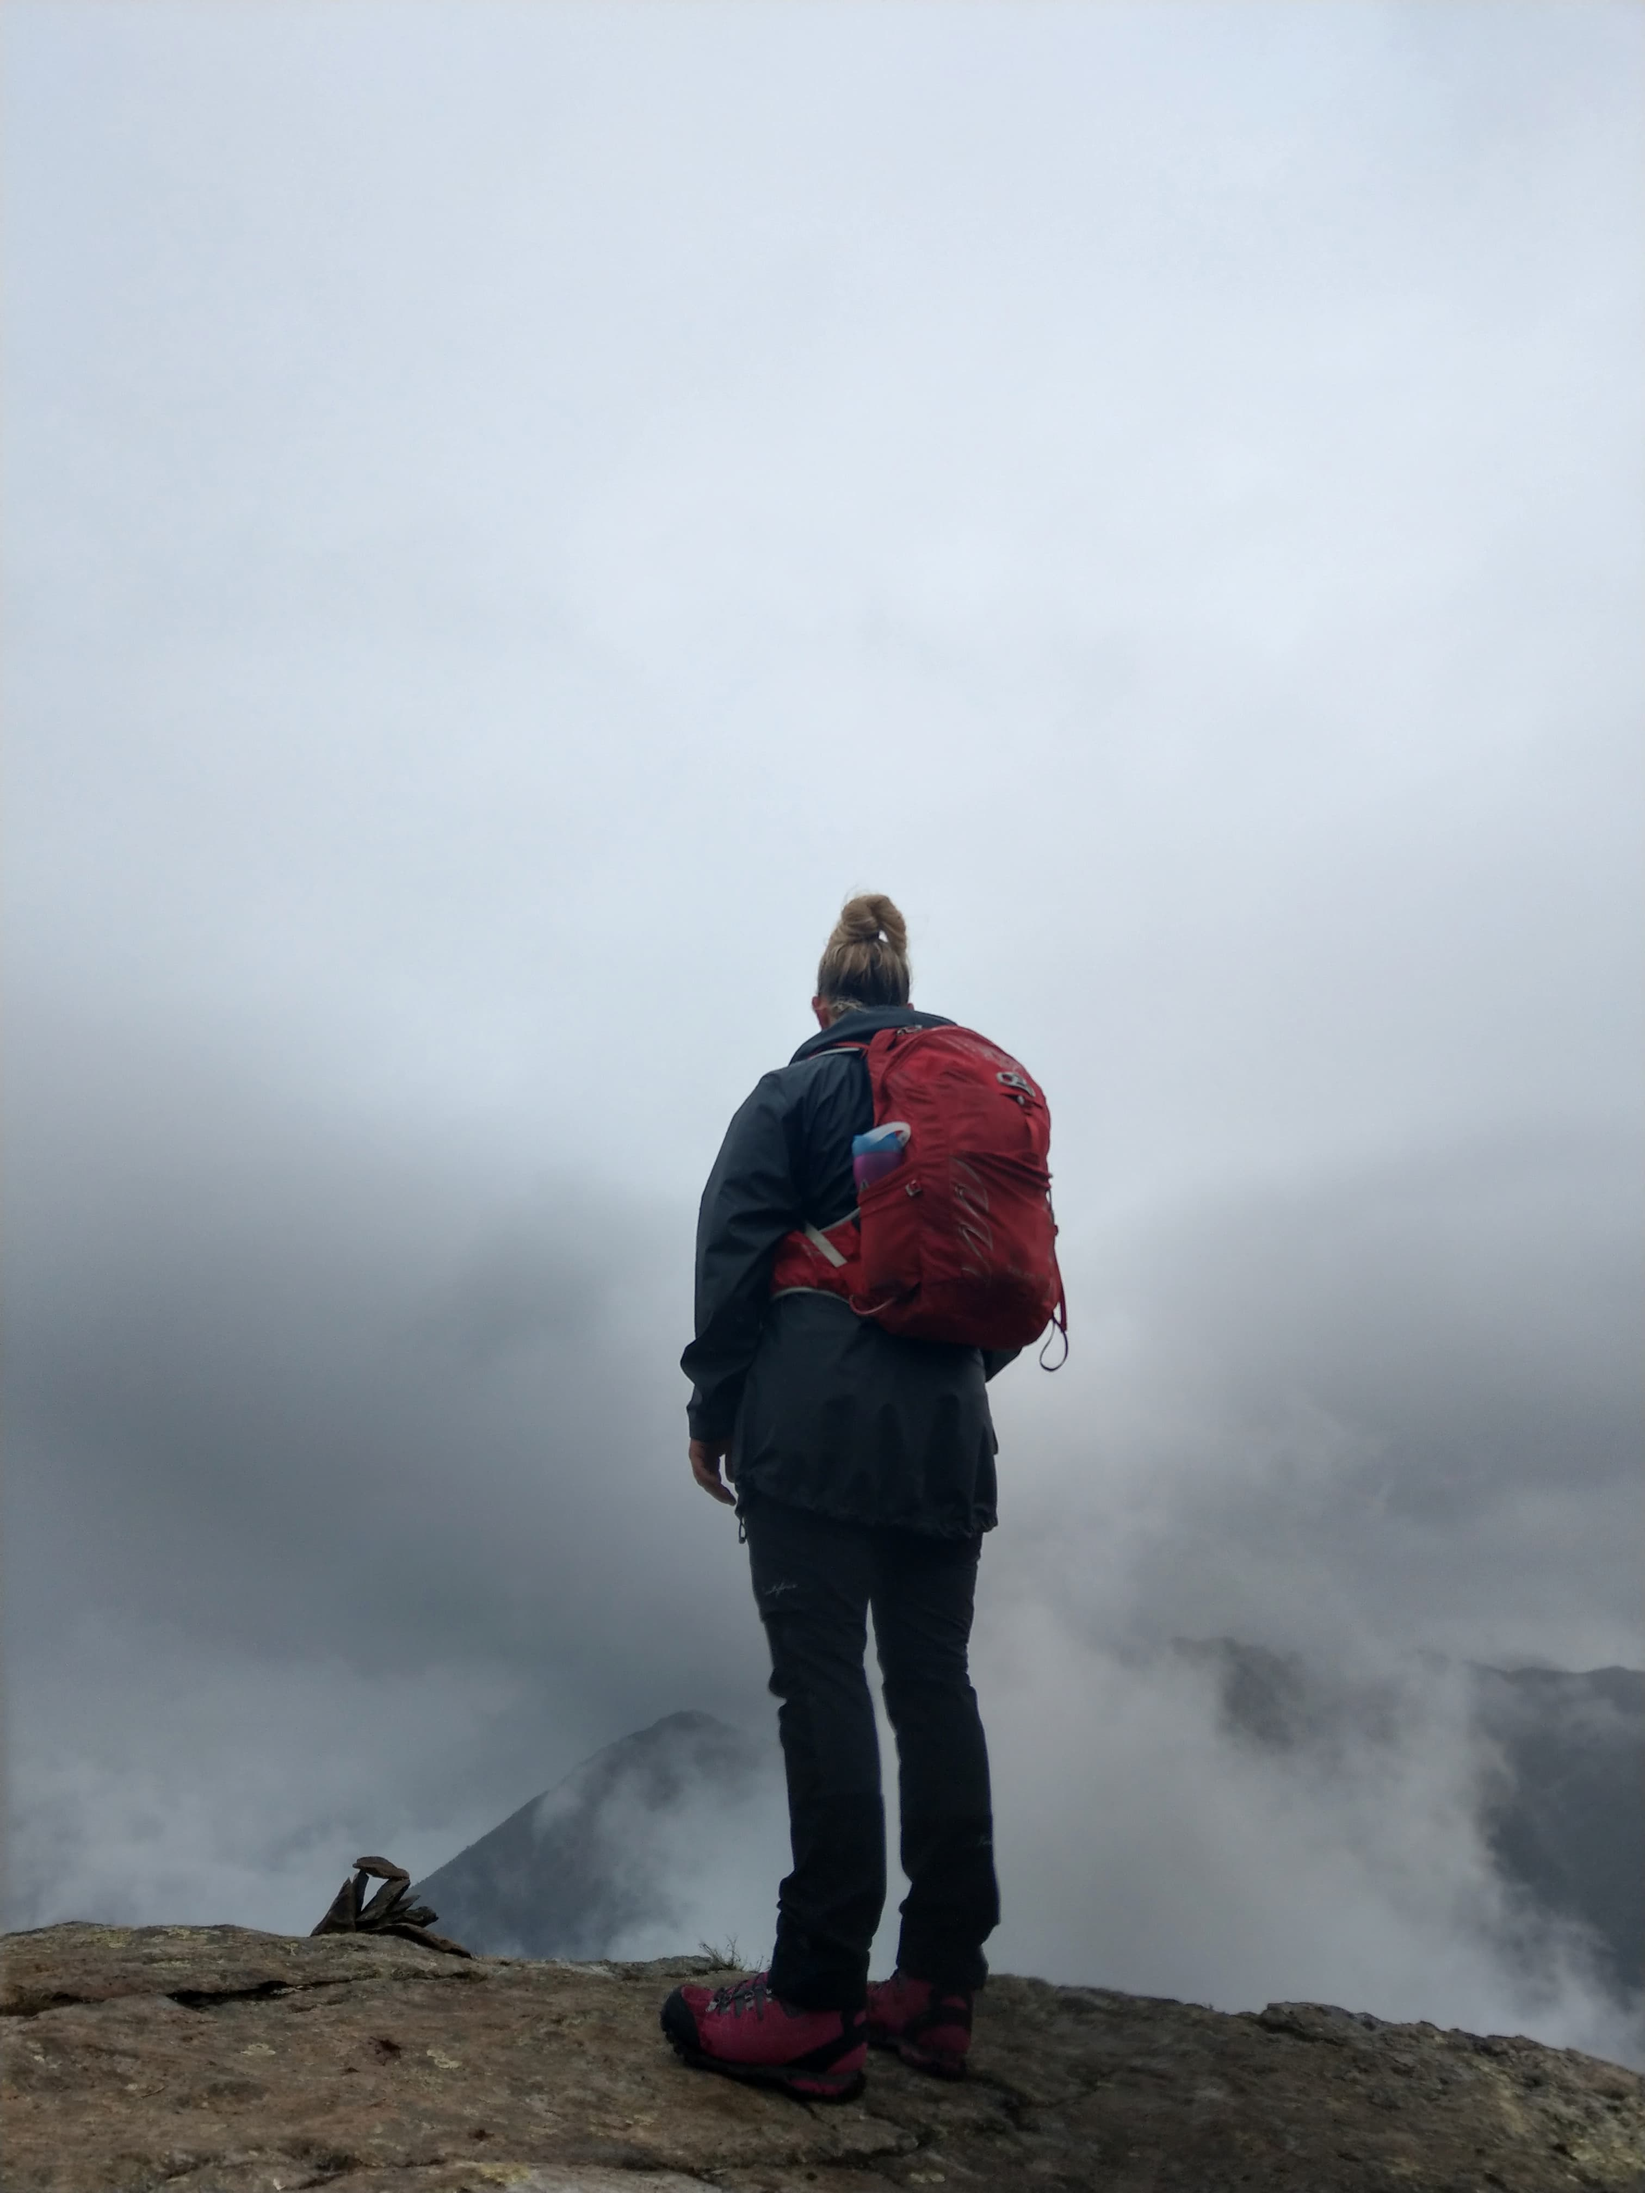
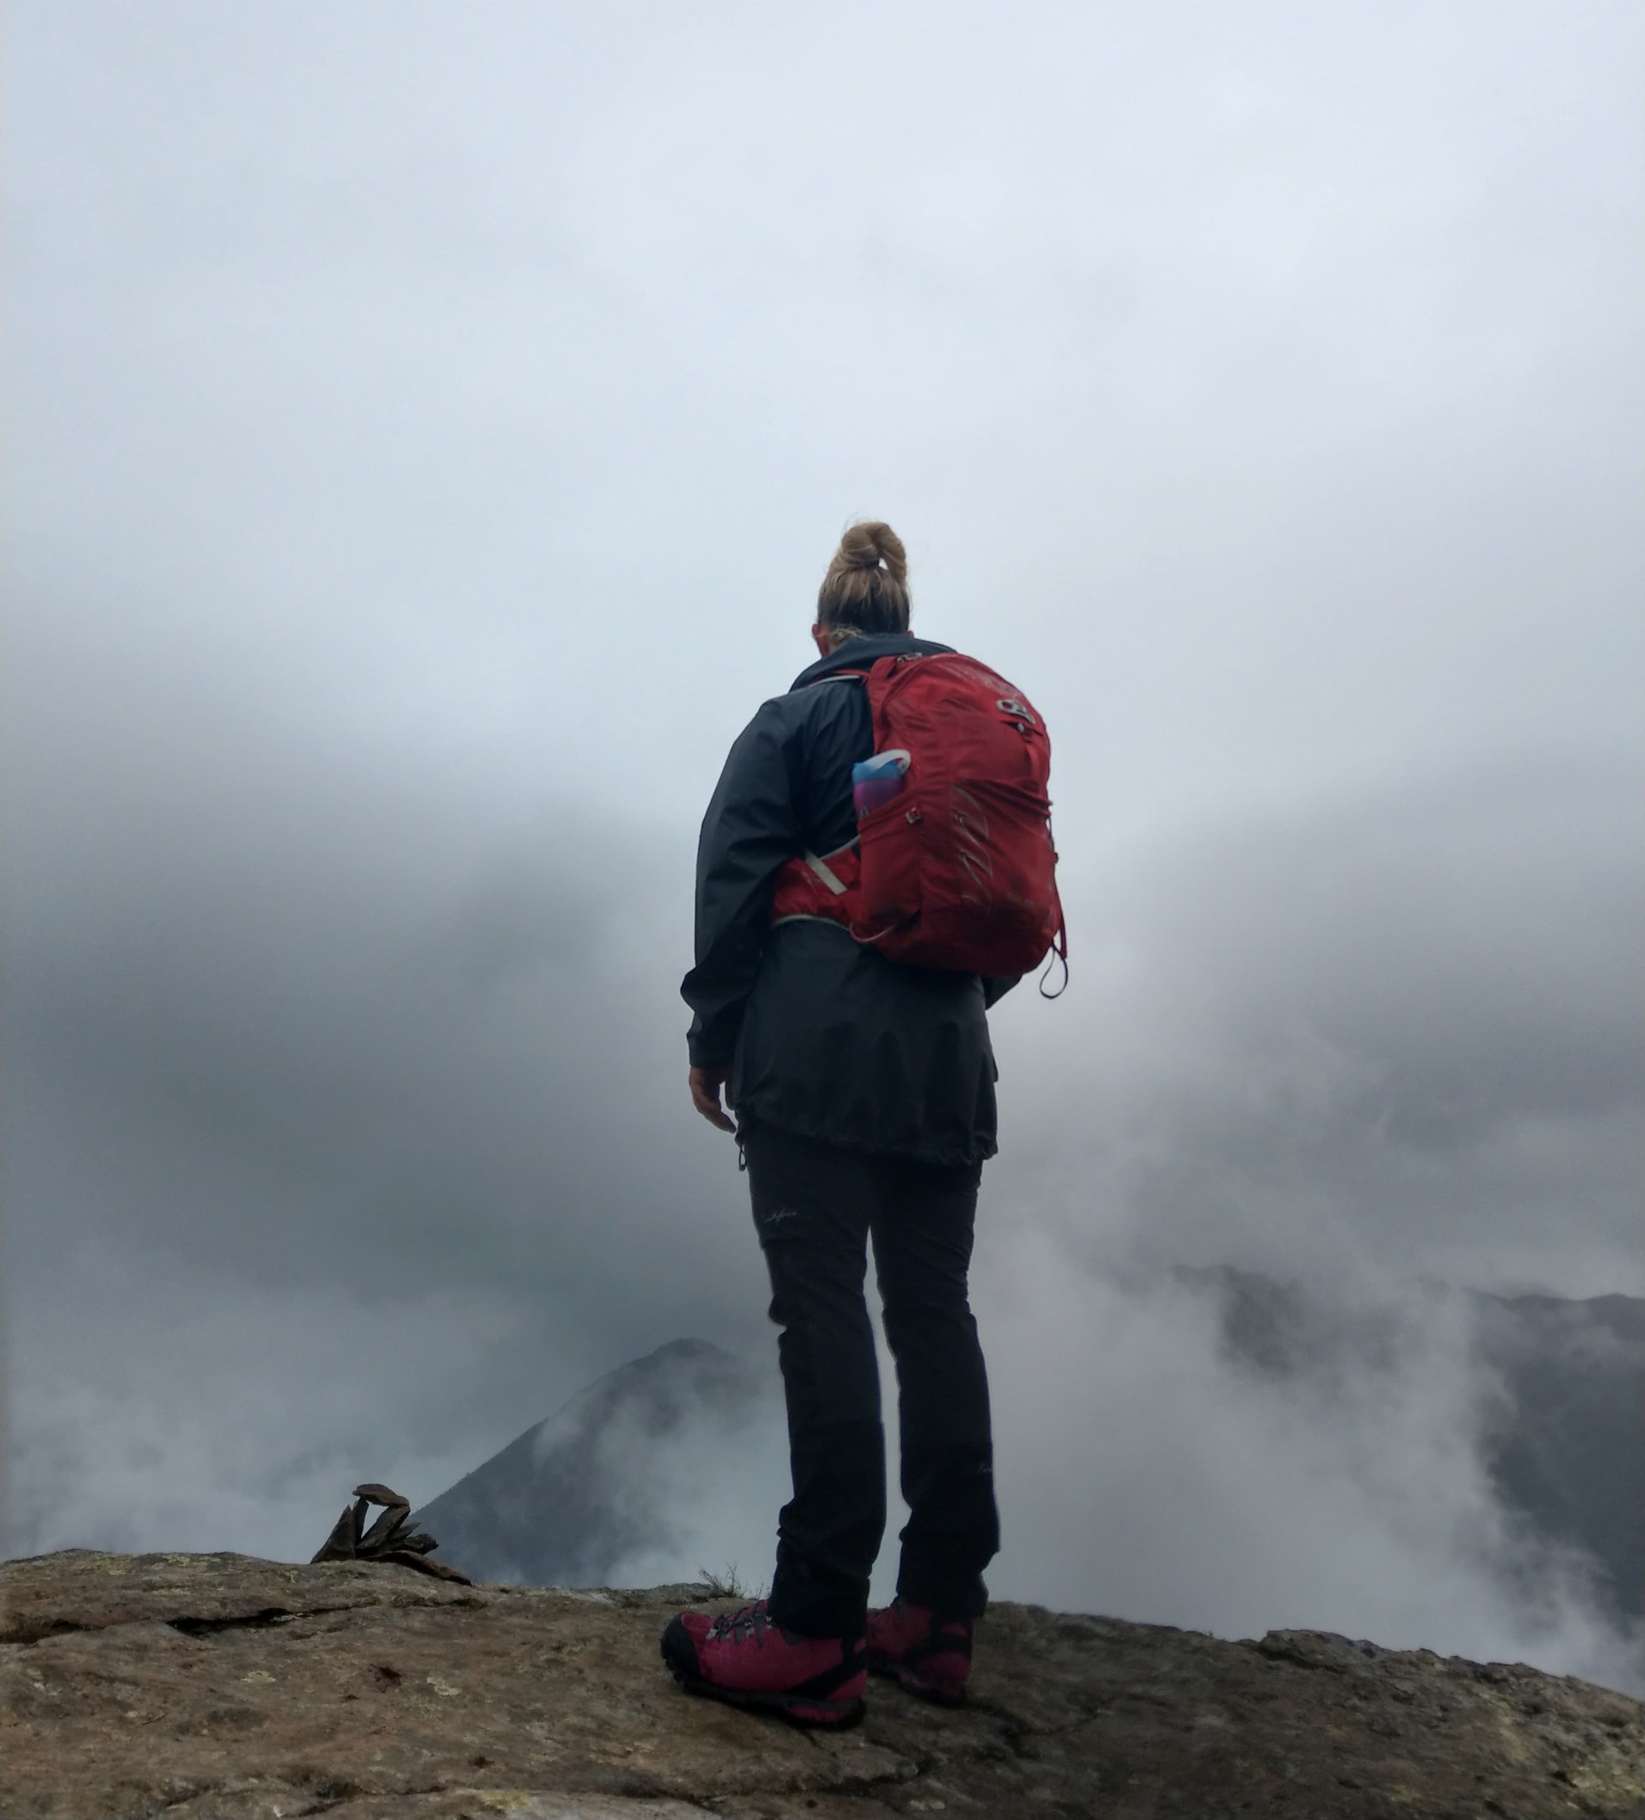
updated buttons and design

Changed region(s): [[0.0, 0.2797, 1.0, 0.9943]]

diff --git a/style.css b/style.css
@@ -54,6 +54,23 @@ body {
   max-width: 150px;
 }
 
+.back-button {
+  display: inline-flex;
+  align-items: center;
+  gap: 6px;
+  padding: clamp(6px, 1vw, 10px) clamp(12px, 2vw, 24px);
+}
+
+.back-button i {
+  font-size: 0.9em;
+}
+
+.nav-left {
+  display: flex;
+  gap: 8px;
+  align-items: center;
+}
+
 .nav-button,
 .back-button,
 .btn-jacket {
@@ -156,7 +173,7 @@ body {
   min-height: 100vh;
 }
 
-/*mens_jackets background failsafe*/
+
 
 
 @media (max-width:1024px) {
@@ -170,7 +187,7 @@ body {
   .home-page {
     background-image: url("images/dronningstien.jpg");
     background-size: cover;
-    background-position: left 50% bottom 80px top left;
+    background-position: left 50% bottom -80px;
   }
 }
 
@@ -382,28 +399,49 @@ body.shop-page {
 
 /*product page start*/
 
+
 .product-description {
   background-color: #A7B3A4;
+  overflow: hidden;
+}
+
+body.product-description {
+  overflow: hidden;
+  height: 100vh;
+  margin: 0;
+  padding: 0;
+}
+
+main {
+  display: flex;
+  flex-direction: column;
+  min-height: calc(100vh - 160px);
+  padding: 20px 0 80px;
+  box-sizing: border-box;
+  overflow: hidden;
 }
 
 .product-container {
   display: flex;
-  align-items: center;
-  gap: 1rem;
+  height: calc(100vh - 160px);
+  width: 100%;
+  max-width: none;
+  margin: 0;
+  padding: 0;
+  gap: 0;
 }
 
 .product-box {
   flex: 0 0 50%;
-  background: #F8E6BF;
   padding: 30px;
-  display: flex;
-  flex-direction: column;
-  justify-content: flex-start;
-  box-shadow: 0 4px 8px rgba(0, 0, 0, 0.1);
+  background: #F8E6BF;
+  box-shadow: 0 4px 8px rgba(0, 0, 0, 0.2);
+  overflow-y: auto;
+
 }
 
 .text-content {
-  margin-bottom: 20px;
+  margin-bottom: 15px;
   text-align: left;
 }
 
@@ -421,37 +459,74 @@ body.shop-page {
 }
 
 .jacket-image {
-  max-width: 200px;
+  max-width: 150px;
   height: auto;
+  display: block;
+  margin: 0 auto;
+  object-fit: contain;
 }
 
 
 .background-img {
   flex: 1;
-  height: auto;
-  display: block;
+  margin: 0;
 }
 
 .background-img img {
+  max-height: calc(100vh - 180px);
+  object-position: center;
   width: 100%;
   height: 100%;
   object-fit: cover;
-  object-position: center;
 }
+
+.add-to-cart {
+  display: inline-flex;
+  align-items: center;
+  gap: 8px;
+  padding: 8px 20px;
+  margin-top: 12px;
+  background-color: #F8C659;
+  color: #2F5327;
+  border-radius: 100px;
+  font-family: 'Bebas Neue', sans-serif;
+  font-size: 1.2rem;
+  letter-spacing: 2px;
+  text-decoration: none;
+  transition: all 0.3s ease;
+  box-shadow: 0 3px 6px rgba(0, 0, 0, 0.2);
+  border: 2px solid transparent;
+  cursor: pointer;
+}
+
+.add-to-cart:hover {
+  background-color: #2F5327;
+  color: #F8E6BF;
+  transform: translateY(-2px);
+}
+
+.add-to-cart i {
+  font-size: 1rem;
+  color: inherit;
+}
+
 
 /* Mobile Responsiveness */
 @media (max-width: 768px) {
   .product-container {
     flex-direction: column;
+    gap: 1rem;
   }
 
   .product-box {
     flex: 1 1 100%;
     width: 100%;
+    max-height: none;
   }
 
   .background-img {
-    display: none;
+    order: -1;
+    max-height: 40vh;
   }
 
   .jacket-image {

diff --git a/product_description.html b/product_description.html
@@ -18,6 +18,9 @@
   <body class="product-description">
     <header class="site-header">
       <div class="nav-left">
+        <button onclick="window.history.back()" class="nav-button back-button">
+          <i class="fas fa-arrow-left"></i> Back
+        </button>
         <a href="index.html" class="nav-button">Home</a>
         </div>
 
@@ -38,6 +41,7 @@
       <div class="product-box">
         <div class="text-and-image">
     <div class="text-content">
+    
     <p>Adventure doesn't wait for perfect weather—and neither should you. Whether you're
 hiking rugged trails, skiing down fresh powder, or paddling through serene lakes,
 you need a jacket that keeps up.</p>
@@ -52,7 +56,12 @@ Built for the Wild. Ready for Anything.</p>
 light weight and breathability, this jacket allows for movement while keeping you dry
 and warm.</p>
 </div>
+<div class ="image-button-container">
 <img src="images/bobcat lightweight.png" alt="bobcat lightweight" class="jacket-image" />
+<button class="add-to-cart">
+  <i class="fas fa-shopping-cart"></i> ADD TO CART
+</button>
+</div>
 </div>
 </div>
 <div class="background-img">

diff --git a/mens_jackets.html b/mens_jackets.html
@@ -18,6 +18,9 @@
   <body class="shop-page">
     <header class="site-header">
       <div class="nav-left">
+        <button onclick="window.history.back()" class="nav-button back-button">
+    <i class="fas fa-arrow-left"></i> Back
+  </button>
         <a href="index.html" class="nav-button">Home</a>
         </div>
 
